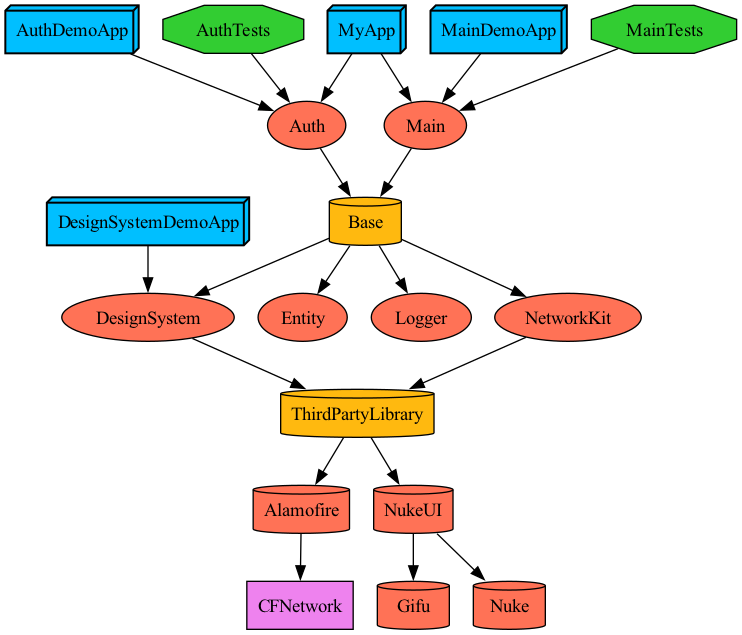
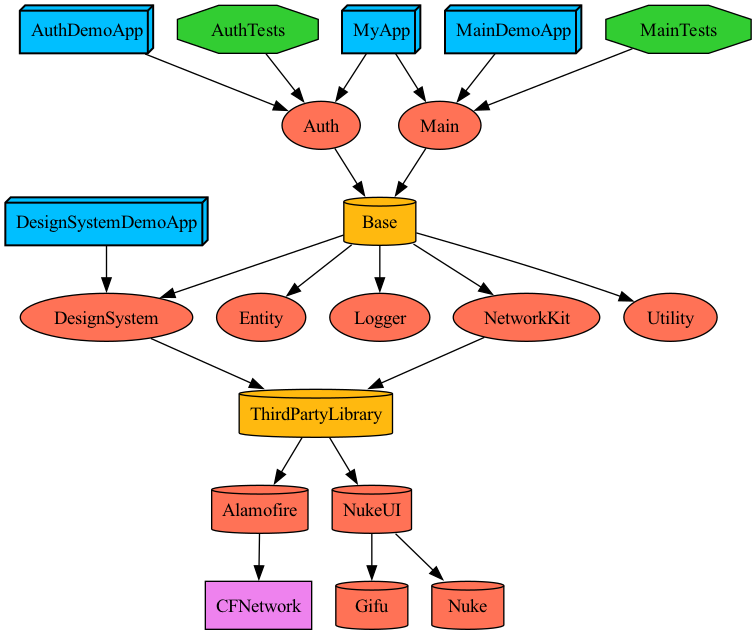
Add Core Utility

diff --git a/Projects/Core/Utility/Project.swift b/Projects/Core/Utility/Project.swift
@@ -1,0 +1,12 @@
+import Foundation
+import ProjectDescription
+import MyAppPlugIn
+
+let project = Project.makeModule(
+    name: "Utility",
+    organizationName: organizationName,
+    product: .staticLibrary,
+    bundleId: bundleID + "Utility",
+    dependencies: [],
+    settings: .core()
+)

diff --git a/Projects/Feature/Base/Project.swift b/Projects/Feature/Base/Project.swift
@@ -11,6 +11,7 @@ let project = Project.makeModule(
         .core(module: .NetworkKit),
         .core(module: .Logger),
         .core(module: .Entity),
+        .core(module: .Utility),
         .design(module: .DesignSystem),
     ],
     settings: .base("Base"),

diff --git a/Plugins/MyAppPlugIn/ProjectDescriptionHelpers/Module/Module.swift b/Plugins/MyAppPlugIn/ProjectDescriptionHelpers/Module/Module.swift
@@ -27,6 +27,7 @@ public extension Module {
         case NetworkKit
         case ThirdPartyLibrary
         case Logger
+        case Utility
         
         public static let name: String = "Core"
     }

diff --git a/Projects/Core/Utility/Sources/file.swift b/Projects/Core/Utility/Sources/file.swift
@@ -1,0 +1,1 @@
+// file
